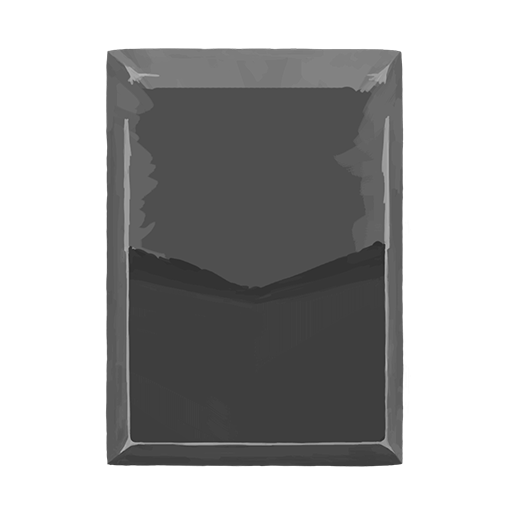
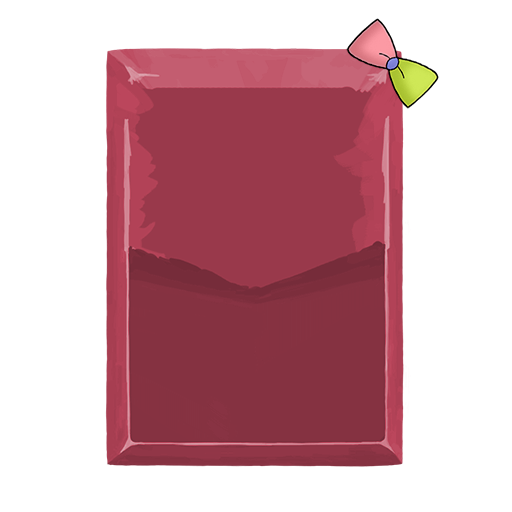
总之修bug

diff --git a/src/main/java/YUZUMod/YuzuMod.java b/src/main/java/YUZUMod/YuzuMod.java
@@ -20,6 +20,7 @@ import com.badlogic.gdx.graphics.Color;
 import com.evacipated.cardcrawl.mod.stslib.patches.CustomTargeting;
 import com.evacipated.cardcrawl.modthespire.lib.SpireInitializer;
 import com.google.gson.Gson;
+import com.megacrit.cardcrawl.actions.AbstractGameAction;
 import com.megacrit.cardcrawl.cards.AbstractCard;
 import com.megacrit.cardcrawl.core.CardCrawlGame;
 import com.megacrit.cardcrawl.core.Settings;
@@ -146,8 +147,15 @@ public class YuzuMod implements EditCharactersSubscriber , EditCardsSubscriber ,
 
     @Override
     public void receiveCardUsed(AbstractCard abstractCard) {
-        AbstractDungeon.actionManager.addToBottom(new YUZUMasterCardAction(abstractCard));
-        AbstractDungeon.actionManager.addToBottom(new YUZUApplyCriticalRateAction(1));
+        AbstractDungeon.actionManager.addToBottom(new AbstractGameAction() {
+            @Override
+            public void update() {
+                AbstractDungeon.actionManager.addToBottom(new YUZUMasterCardAction(abstractCard));
+                AbstractDungeon.actionManager.addToBottom(new YUZUApplyCriticalRateAction(1));
+                this.isDone=true;
+            }
+        });
         YUZUBlockWordEffectPatch.isCriticalHit=false;
+
     }
 }

diff --git a/src/main/java/YUZUMod/cards/YUZUCustomCard.java b/src/main/java/YUZUMod/cards/YUZUCustomCard.java
@@ -3,6 +3,7 @@ package YUZUMod.cards;
 import YUZUMod.YuzuMod;
 import YUZUMod.power.YUZUAnalysisPower;
 import basemod.abstracts.CustomCard;
+import com.evacipated.cardcrawl.mod.stslib.patches.FlavorText;
 import com.evacipated.cardcrawl.modthespire.lib.SpireEnum;
 import com.megacrit.cardcrawl.cards.AbstractCard;
 import com.megacrit.cardcrawl.characters.AbstractPlayer;
@@ -15,10 +16,10 @@ import java.util.Map;
 
 public abstract class YUZUCustomCard extends CustomCard {
     protected static Map<String,Integer> MasterCards=new HashMap<>();
-    private int extraCirHitMulter;
 
     public YUZUCustomCard(String ID, String NAME, String IMG_PATH, int COST, String DESCRIPTION, CardType TYPE, CardColor COLOR, CardRarity RARITY, CardTarget TARGET) {
         super(ID,NAME,IMG_PATH,COST,DESCRIPTION,TYPE,COLOR,RARITY,TARGET);
+        FlavorText.AbstractCardFlavorFields.boxColor.set(this,YuzuMod.YUZUColor.cpy());
     }
 
     @Override
